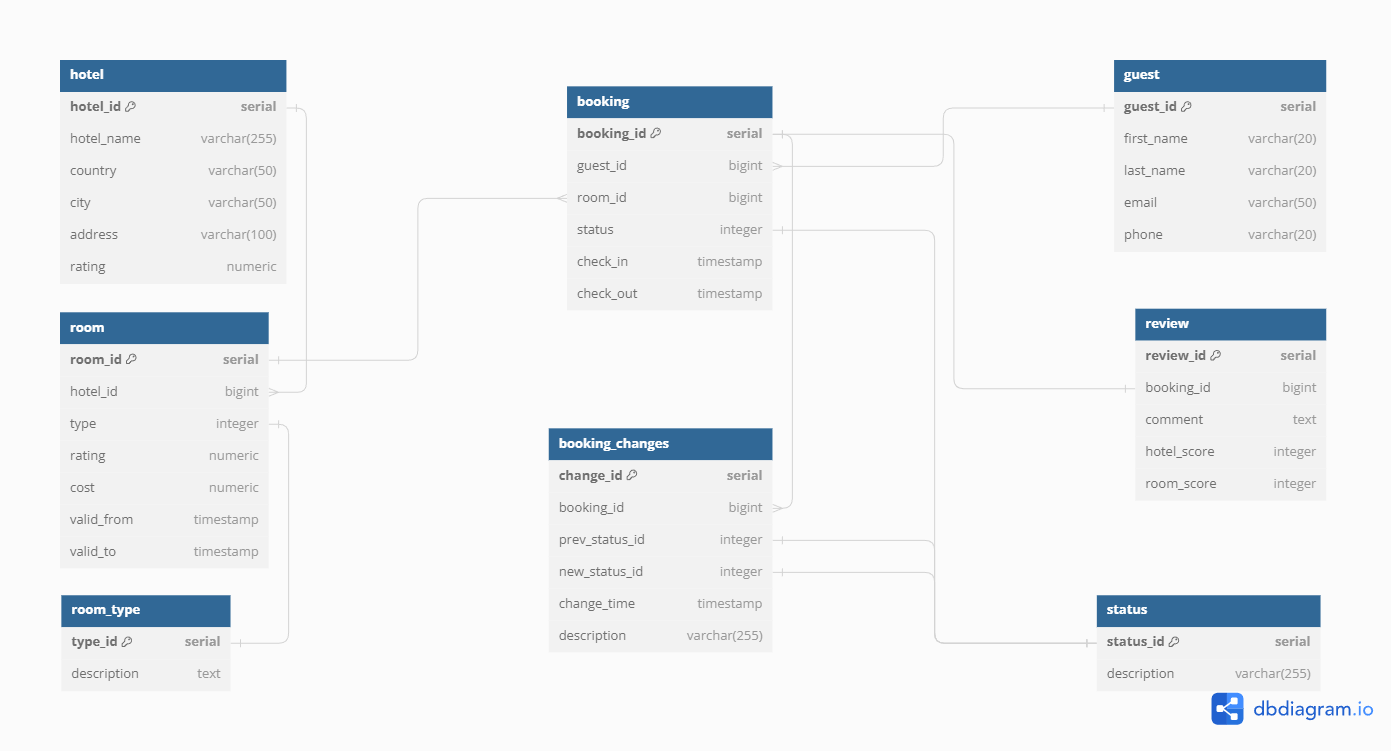
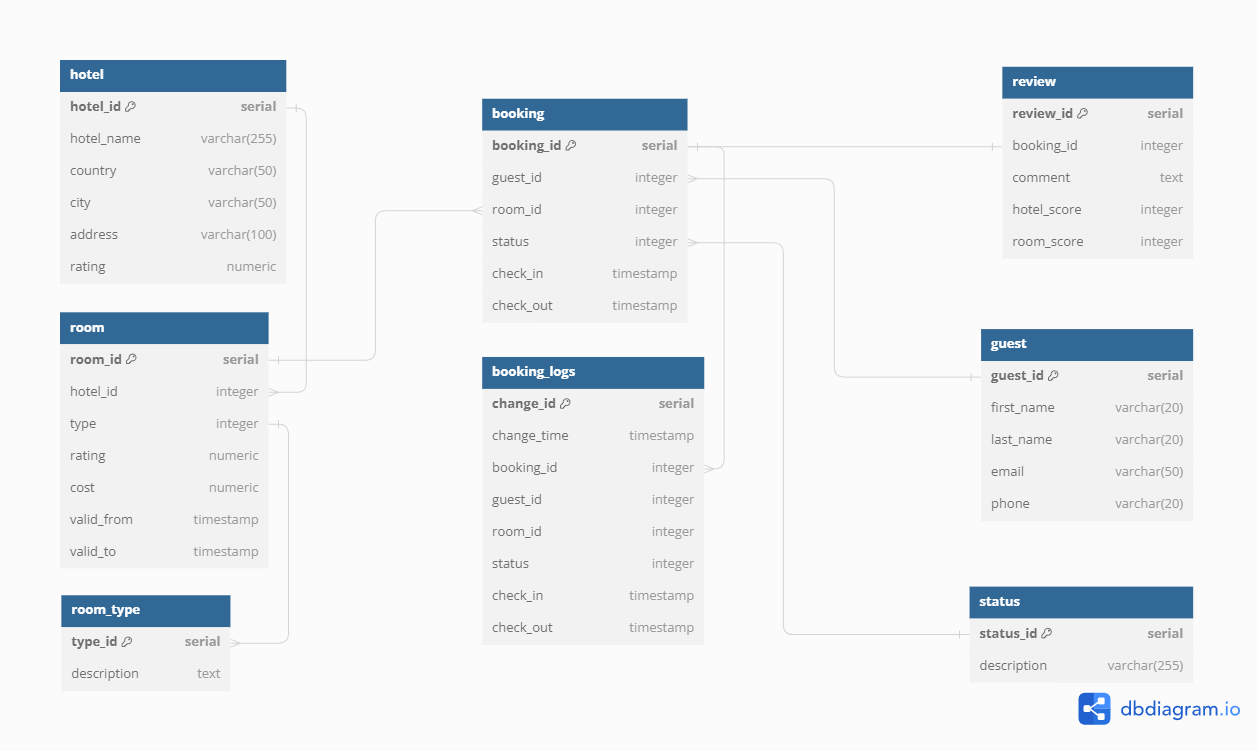
physical_model

diff --git a/README.md b/README.md
@@ -8,7 +8,7 @@
 
  2) В room хранится информация о посуточной цене за номер, о его классе (одноместный, люкс и т.д.) и о том, в каком отеле он находится. 
 
- 3) В booking хранится основная информация о бронировании и в частности текущее состояние бронирования (оформлено, перенос, отменено и т.д.).
+ 3) В booking хранится основная информация о бронировании.
     
  4) В guest - имя, фамилия, электронная почта и телефон пользователя.
     
@@ -16,11 +16,13 @@
 
 **2 таблицы являются версионными:**
 
- 1) Booking версионируется в SCD4 (изменения хранятся в booking changes). Выбрал это формат, так как мы хотим иметь быстрый доступ к актуальной информации о бронировании, однако нам так же важны предыдущие состояния бронирования для анализа и сохранения контекста.
+ 1) Booking версионируется в SCD4 (предыдущие версии хранятся в booking_logs). Выбрал это формат, так как мы хотим иметь быстрый доступ к актуальной информации о бронировании, однако нам так же важны предыдущие состояния бронирования для анализа и сохранения контента.
 
  2) Room версионируется в SCD2, т.к. нам важно знать историю изменения цен, но изменения будут не очень частыми и скорее сезонными, а потому это оптимальный формат.
 
 БД находится в 3НФ.
+
+Так как я занимаюсь лишь бронированием, то в таблице с комнатами хранятся не конкретные номера комната, а сущности в виде класса этой комнаты(требования предполагается описывать в room_type.description), отеля и их цены.
 
 Типы комнат и статусы бронирований вынесены в отдельные таблицы для удобства масштабирования.
 
@@ -31,3 +33,76 @@
 <img src="./pic/logic_model.png" width="700"/>  
 
 ## Физическая модель
+
+#### hotel
+| Field name | Description | Data type | Restrictions |
+|---|---|---|---| 
+| hotel_id | hotel ID | SERIAL | NOT NULL PRIMARY KEY |
+| hotel_name |  hotel name | VARCHAR(255) | NOT NULL |
+| country | country of the hotel location | VARCHAR(50) | NOT NULL |
+| city | city of the hotel location | VARCHAR(50) | NOT NULL |
+| address | address of the hotel | VARCHAR(100) | NOT NULL |
+| rating | hotel`s rating in system | NUMERIC | $1 \leq rating \leq 5$ |
+
+#### room
+| Field name | Description | Data type | Restrictions |
+|---|---|---|---| 
+| room_id | room ID | SERIAL | NOT NULL PRIMARY KEY |
+| hotel_id | ID of the hotel where this room is located | INTEGER | NOT NULL FOREIGN KEY |
+| type | room`s type (single, premium, etc.) | INTEGER | NOT NULL FOREIGN KEY |
+| rating | room's rating in system | NUMERIC | $1 \leq rating \leq 5$ |
+| cost | daily price for this room (USD) | NUMERIC | NOT NULL |
+| valid_from | from what period is the information relevant | TIMESTAMP | NOT NULL |
+| valid_to | up to what period is the information relevant | TIMESTAMP | NOT NULL |
+
+#### booking
+| Field name | Description | Data type | Restrictions |
+|---|---|---|---| 
+| booking_id | booking ID | SERIAL | NOT NULL PRIMARY KEY |
+| guest_id | guest`s ID | INTEGER | NOT NULL FOREIGN KEY |
+| room_id | booked room ID | INTEGER | NOT NULL FOREIGN KEY |
+| status | booking status | INTEGER | NOT NULL FOREIGN KEY |
+| check_in | booking check-in time | TIMESTAMP | NOT NULL |
+| check_out | booking check-out time | TIMESTAMP | NOT NULL |
+
+#### guest
+| Field name | Description | Data type | Restrictions |
+|---|---|---|---| 
+| guest_id | guest ID | SERIAL | NOT NULL PRIMARY KEY |
+| first_name | guest first name | VARCHAR(20) | NOT NULL |
+| last_name | guest last name | VARCHAR(20) | NOT NULL |
+| email | guest email | VARCHAR(50) | |
+| phone | guest phone | VARCHAR(20) | NOT NULL |
+
+#### review
+| Field name | Description | Data type | Restrictions |
+|---|---|---|---| 
+| review_id | review ID | SERIAL | NOT NULL PRIMARY KEY |
+| booking_id |  ID of the booking for which the review is being left | INTEGER | NOT NULL FOREIGN KEY |
+| comment | guest`s comment | TEXT | |
+| hotel_score | guest`s score for hotel | INTEGER | $1 \leq score \leq 5$ |
+| room_score | guest`s score for room | INTEGER | $1 \leq score \leq 5$ |
+
+#### booking_logs
+| Field name | Description | Data type | Restrictions |
+|---|---|---|---| 
+| change_id | change ID | SERIAL | NOT NULL PRIMARY KEY |
+| change_time | timestamp of change | TIMESTAMP | NOT NULL |
+| booking_id |  ID of the relevant actual booking that was modified | INTEGER | NOT NULL FOREIGN KEY |
+| guest_id | ID of the logged guest | INTEGER | NOT NULL FOREIGN KEY |
+| room_id | ID of the logged room | INTEGER | NOT NULL FOREIGN KEY |
+| status | ID of the logged status | INTEGER | NOT NULL FOREIGN KEY |
+| check_in | logged booking check-in time | TIMESTAMP | NOT NULL |
+| check_out | logged booking check-out time | TIMESTAMP | NOT NULL |  
+
+#### room_type
+| Field name | Description | Data type | Restrictions |
+|---|---|---|---| 
+| type_id | type ID | SERIAL | NOT NULL PRIMARY KEY |
+| description | room description | TEXT | |
+
+#### status
+| Field name | Description | Data type | Restrictions |
+|---|---|---|---| 
+| status_id | status ID | SERIAL | NOT NULL PRIMARY KEY |
+| description | desription of booking status | VARCHAR(255) | |
